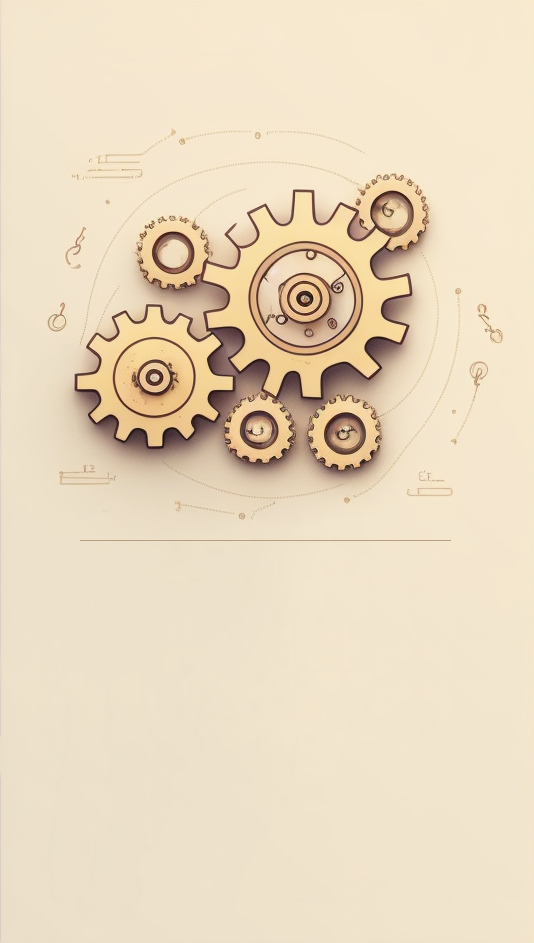
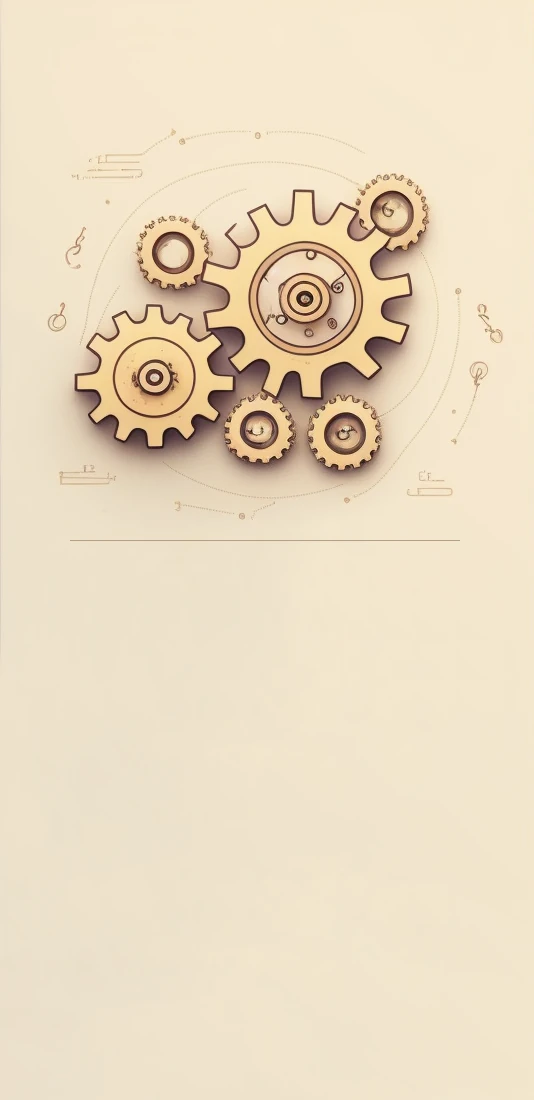
WIP

diff --git a/pages/index.tsx b/pages/index.tsx
@@ -61,11 +61,11 @@ const Home: React.FC<{ posts: Post[]; navLinks: NavLink[] }> = (props) => {
   return (
     <Background className={''}>
     <Layout>
-      <main className={'h-screen sm:w-3/5 text-center flex flex-col sm:justify-center lg:items-center my-0 py-8 md:py-10 px-0'} role="content">
-        <header className='w-[85%] md:w-10/12 text-center border-[#B89F84] border-b sm:border-none'>
-          <StefanHorne className={`m-0 text-[#504A2F] text-6xl xl:text-7xl ${la_belle_aurore.className}`}>Stefan Horne</StefanHorne>
+      <main className={'h-screen xs:w-3/5 text-center xs:text-left flex flex-col xs:justify-center items-left sm:items-center my-0 py-8 md:py-10 px-0'} role="content">
+        <header className='w-[85%] mx-auto my-0 xs:m-0 md:w-10/12 border-[#B89F84] border-b sm:border-none'>
+          <StefanHorne className={`m-0 text-[#504A2F] text-5xl xs:text-6xl xl:text-7xl ${la_belle_aurore.className}`}>Stefan Horne</StefanHorne>
         </header>
-        <div className='sm:hidden h-[55%] '></div>
+        <div className='xs:hidden h-[60%] xxs:min-h-[400px]'></div>
         <Nav navLinks={navLinks}></Nav>
       </main>
     </Layout>
@@ -88,8 +88,10 @@ const Background = styled.div`
   background: url('/images/home-mobile.webp') no-repeat top;
   background-size: cover;
 
-  @media (min-width: 640px) {
-    background: url('/images/home.webp') no-repeat center;
+  @media (min-width: 500px) {
+    background: url('/images/home.webp') no-repeat;
     background-size: cover;
+    background-position: right -200px bottom
   }
+
 `

diff --git a/components/Nav.tsx b/components/Nav.tsx
@@ -25,8 +25,8 @@ const Nav: React.FC<{ navLinks: NavLink[] }> = (props) => {
   })
 
   return (
-    <nav className={'text-[#504A2F] text-6xl sm:text-4xl leading-[5rem] sm:border-t border-solid border-[#504A2F] sm:pt-4'} role="navigation">
-      <ul className={'text-center sm:text-left list-none p-0 mt-1.5 mx-0 mb-0 flex flex-col xl:flex-row sm:justify-evenly'}>{links}</ul>
+    <nav className={'text-[#504A2F] text-4xl xs:text-4xl leading-[3rem] sm:border-t border-solid border-[#504A2F] sm:pt-4'} role="navigation">
+      <ul className={'text-center xs:text-left list-none p-0 mt-1.5 mx-0 mb-0 flex flex-col xl:flex-row xs:justify-evenly'}>{links}</ul>
     </nav>
   )
 }

diff --git a/tailwind.config.js b/tailwind.config.js
@@ -15,6 +15,7 @@ module.exports = {
     extend: {
       screens: {
         'xs': '500px',
+        'xxs': '400px',
       },
       keyframes: {
         'fade-in': {
